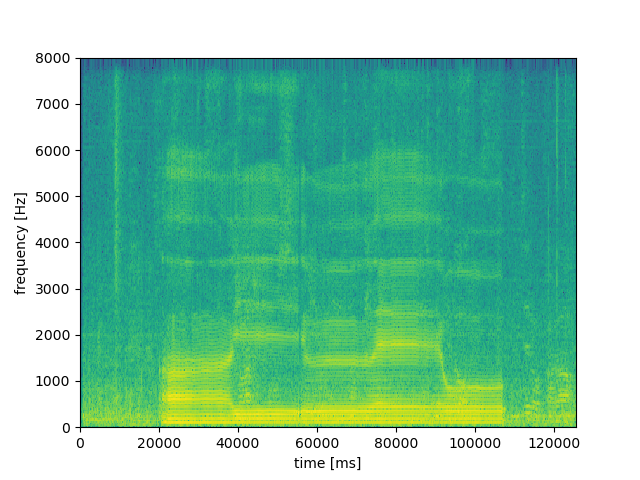
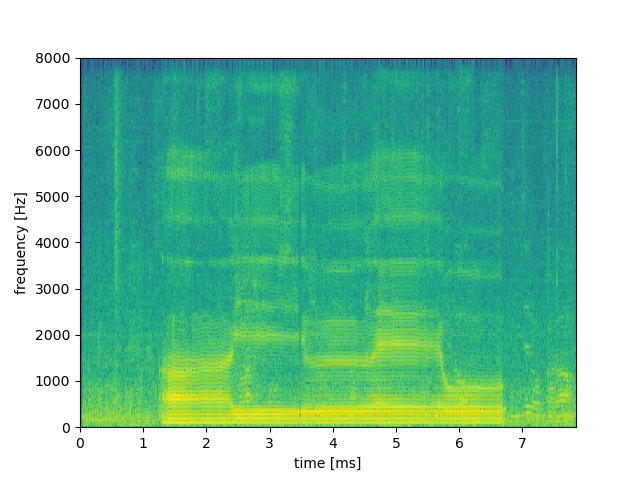
exer04 - done

diff --git a/01_audio_recognition/04_working_with_spectrograms/plot_spectrogram.py b/01_audio_recognition/04_working_with_spectrograms/plot_spectrogram.py
@@ -82,12 +82,13 @@ fig = plt.figure()
 
 # スペクトログラムを描画
 plt.xlabel("time [ms]")  # x軸のラベルを設定
+time_x = np.arange(0, len(x), size_shift) / SR  # 時間軸を設定
 plt.ylabel("frequency [Hz]")  # y軸のラベルを設定
 plt.imshow(
     np.flipud(np.array(spectrogram).T),  # 画像とみなすために，データを転置して上下反転
     extent=[
         0,
-        len(x),
+        time_x[-1],
         0,
         SR / 2,
     ],  # (横軸の原点の値，横軸の最大値，縦軸の原点の値，縦軸の最大値)

diff --git a/01_audio_recognition/04_working_with_spectrograms/graph_explanation.md b/01_audio_recognition/04_working_with_spectrograms/graph_explanation.md
@@ -4,3 +4,32 @@
 
 ![](plot-spectogram.png)
 
+### Color
+
+The color in the spectrogram represents the pressure of each frequncy. The yellow menas higher pressure while the blue means lower. 
+
+Blue $\rightarrow$ Yellow
+
+### Window function
+
+The window function used was the Hamming Window.
+
+The window function used in our program is the [Hamming Window](https://stackoverflow.com/questions/5418951/what-is-the-hamming-window-for) function. When we attain our sine waves from a fourier transformation, we can observe a sharp spike. However, this will be unfortunately accompanied by noise, which can make the waves slightly unclear. This is where the hamming window comes into play. This function will reduce this noise, making the spikes clearer to observe while reducing the extra noise surroudn the spikes. 
+
+### Frame size
+
+The frame size was 512 samples.
+
+This works with the hamming function as the sample size (512 samples). We maintain a sample size of powers of 2 to optimize the performance of our FTT computations. 
+
+### Shift size
+
+the shift size was 160
+
+The shift size allows each frame within our spectrogram to have smoother transitions between one another. This is done by giving some overlaps between each subsequent frame, instead of forming sudden breaks.
+
+### X-axis Y-axis
+
+Each frame represents a time segment in the audio clip. Each segment is 10ms long, as defined by the shift size, and shows how the frequencies evolve over time. 
+
+Each frame's fourier transform reveals the frequency components of each frame in the audio clip. 
